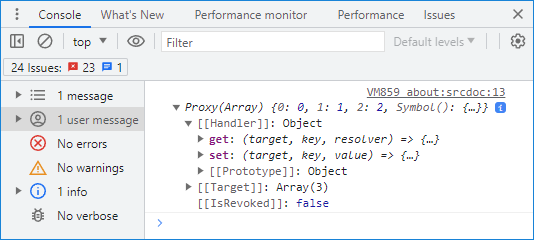
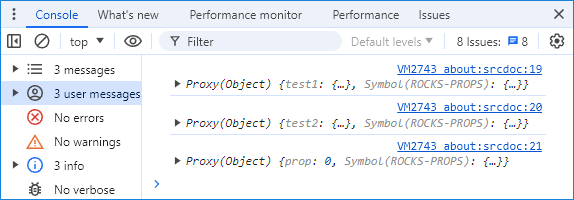
AutoCommit: 82404

Changed region(s): [[0.0, 0.0, 1.0, 0.87], [0.0, 0.66, 1.0, 1.0], [0.2697, 0.9, 0.2996, 0.96]]

diff --git a/learn/_help/ru/rocks-framework-principle-of-operation.md b/learn/_help/ru/rocks-framework-principle-of-operation.md
@@ -1,30 +1,35 @@
 Для добавления расширенной функциональности фреймворк **ROCKS** использует несколько механизмов.
 
-Для расширения функциональности свойств элементарных типов, функция **ROCKS** добавляет к ним геттеры и сеттеры, в которых реализуется дополнительный функционал, указанный при описании свойств.
+Для расширения функциональности свойств элементарных типов, функция **ROCKS** заменяет их на пару одноимённых геттеров и сеттеров, в которых реализуется дополнительный функционал, указанный при описании свойств.
 
 Например,
 
-```html run_edit_h=35_
+```html run_edit_h=55_
 <!--script type="module" src="https://cdn.jsdelivr.net/gh/odajs/oda/rocks.js"></script-->
 <script type="module" src="./rocks.js"></script>
-<div id='div'></div>
+<div id='Rocks'></div>
+<div id='Native'></div>
 <script type="module">
     class myClass extends ROCKS({
-        counter: 0
+        rocks: "Это свойство создано функцией ROCKS"
     }) {
+        native = "Это нативное свойство";
         constructor() {
             super();
         }
     }
 
     let myObject = new myClass();
-    let div = document.getElementById("div");
-    let descr = Object.getOwnPropertyDescriptor(myObject.__proto__.__proto__, "counter");
-    div.innerText = "Дескрипторы: " + Object.getOwnPropertyNames( descr );
+    let divRocks = document.getElementById("Rocks");
+    let divNative = document.getElementById("Native");
+    let descr = Object.getOwnPropertyDescriptor(myObject.__proto__.__proto__, "rocks");
+    divRocks.innerText = "Дескрипторы свойства rocks: " + Object.getOwnPropertyNames( descr );
+    descr = Object.getOwnPropertyDescriptor(myObject, "native");
+    divNative.innerText = "Дескрипторы свойства native: " + Object.getOwnPropertyNames( descr );
 </script>
 ```
 
-В данном примере с помощью метода **Object.getOwnPropertyDescriptor** были получены дескрипторы свойства **counter**. Можно видеть в списке дескрипторов методы **get** и **set**. Они были автоматически добавлены функцией **ROCKS** для расширения функционала свойства.
+В данном примере с помощью метода **Object.getOwnPropertyDescriptor** были получены дескрипторы свойства **rocks**. Можно видеть в списке дескрипторов методы **get** и **set**. Они были автоматически добавлены функцией **ROCKS** для расширения функционала свойства. Для сравнения в нативной части класса объявлено свойство **native**. Можно видеть, что в него методы **get** и **set** добавлены небыли.
 
 Для расширения функциональности вычисляемых свойств, таких как геттеры и сеттеры, функция **ROCKS** добавляет к ним дополнительный код, в котором реализуется дополнительный функционал.
 
@@ -121,6 +126,43 @@
 
 ![Консоль браузера](learn/_help/ru/_images/rocks-framework-principle-of-operation-1.png "Консоль браузера")
 
+В **Proxy**-объект оборачивается не только объект верхнего уровня, но и все вложенные в него объекты, независимо от глубины вложения. Таким образом расширенную функциональность получают все свойства объекта независимо от глубины вложенности.
+
+Например,
+
+```html run_edit_h=40_
+<!--script type="module" src="https://cdn.jsdelivr.net/gh/odajs/oda/rocks.js"></script-->
+<script type="module" src="./rocks.js"></script>
+<button id='button'>Вывести объекты в консоль</button>
+<script type="module">
+    class myClass extends ROCKS({
+        test: {
+            test1: {
+                test2: {
+                    prop: 0
+                }
+            }
+        }
+    }) {
+        constructor() {
+            super();
+        }
+    }
+
+    let myObject = new myClass();
+    let button = document.getElementById("button");
+    button.onclick = function() {
+        console.log( myObject.test );
+        console.log( myObject.test.test1 );
+        console.log( myObject.test.test1.test2 );
+    }
+</script>
+```
+
+В данном примере по нажатию кнопки в консоль браузера выводится объект **test** и вложенные в него объекты **test1** и **test2**. Откройте консоль и исследуйте их. Видно, что все объекты являются **Proxy**-объектами с методами-ловушками **get** и **set**.
+
+![Консоль браузера](learn/_help/ru/_images/rocks-framework-principle-of-operation-2.png "Консоль браузера")
+
 Аналогичным образом функция **ROCKS** оборачивает массивы в специальный объект **Proxy**, для добавления расширенной функциональности.
 
 Например,
@@ -148,7 +190,7 @@
 
 Данный пример аналогичен предыдущему, за исключение того, что по нажатию кнопки в консоль браузера выводится массив **test**, объявленный в функции **ROCKS**. Видно, что массив тоже является **Proxy**-объектом с методами-ловушками **get** и  **set**.
 
-![Консоль браузера](learn/_help/ru/_images/rocks-framework-principle-of-operation-2.png "Консоль браузера")
+![Консоль браузера](learn/_help/ru/_images/rocks-framework-principle-of-operation-3.png "Консоль браузера")
 
 После того как функция **ROCKS** обернула объект в **Proxy**, все его свойства получают одинаковый базовый функционал, определяемый методами-ловушками **get** и **set**.
 
@@ -191,5 +233,5 @@
 
 В данном примере в объекте **test** объявлено свойство **prop** с модификатором **$def**. Можно видеть в списке дескрипторов свойства методы **get** и **set**. Они были автоматически добавлены функцией **ROCKS** для расширения функционала свойства. Сам объект **test** создан функцией **ROCKS** на основе класса **RocksObject**. Нажмите кнопку, чтобы вывести в консоль браузера объект **test**. Откройте консоль и исследуйте его. Видно, что объект **test** не является **Proxy**-объектом.
 
-![Консоль браузера](learn/_help/ru/_images/rocks-framework-principle-of-operation-3.png "Консоль браузера")
+![Консоль браузера](learn/_help/ru/_images/rocks-framework-principle-of-operation-4.png "Консоль браузера")
 

diff --git a/learn/_help/ru/rocks-framework-function-rocks.md b/learn/_help/ru/rocks-framework-function-rocks.md
@@ -51,7 +51,7 @@ yarn add oda-framework
 <div id='Native'></div>
 <script type="module">
     class myClass extends ROCKS({
-        rocks: 'Это свойство создано функцией ROCKS'
+        rocks: "Это свойство создано функцией ROCKS"
     }) {
         native = "Это нативное свойство";
         constructor() {
@@ -81,7 +81,7 @@ yarn add oda-framework
 <div id='Native2'></div>
 <script type="module">
     class myClass extends ROCKS({
-        rocks: 'Это свойство создано функцией ROCKS'
+        rocks: "Это свойство создано функцией ROCKS"
     }) {
         native = "Это нативное свойство";
         constructor() {
@@ -110,7 +110,7 @@ yarn add oda-framework
 <div id='Rocks'></div>
 <script type="module">
     class myClass extends ROCKS({
-        rocks: 'Это свойство создано функцией ROCKS'
+        rocks: "Это свойство создано функцией ROCKS"
     }) {
         rocks = "Это нативное свойство";
         constructor() {
